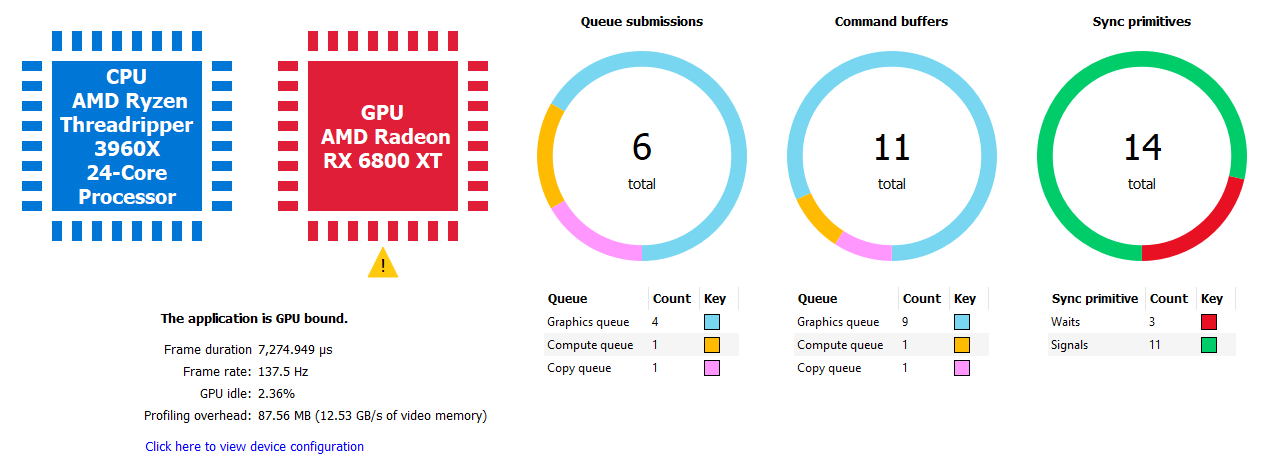
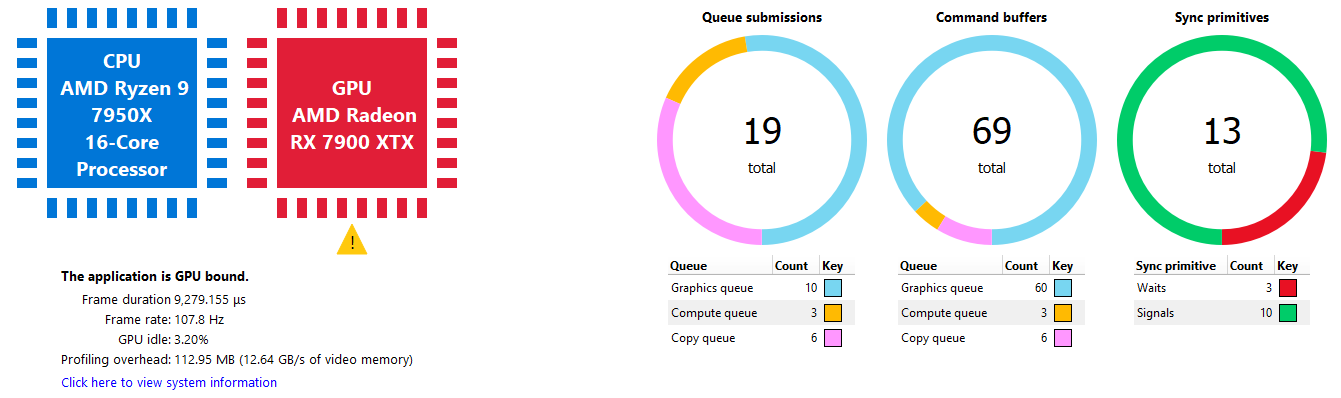
Update docuemntation for V2.3

diff --git a/docs/source/conf.py b/docs/source/conf.py
@@ -56,9 +56,9 @@ author = u'AMD Developer Tools'
 # built documents.
 #
 # The short X.Y version.
-version = u'2.2.0'
+version = u'2.3.0'
 # The full version, including alpha/beta/rc tags.
-release = u'2.2.0'
+release = u'2.3.0'
 
 # The language for content autogenerated by Sphinx. Refer to documentation
 # for a list of supported languages.

diff --git a/docs/source/quickstart.rst b/docs/source/quickstart.rst
@@ -10,7 +10,7 @@ provided with this distribution for information on how to capture a profile.
 This can be obtained from within the Radeon Developer Panel or from the
 link on the Radeon GPU Profiler "Welcome" view. The Radeon Developer Panel
 documentation can also be viewed online at:
-https://radeon-developer-panel.readthedocs.io/en/latest/
+https://gpuopen.com/manuals/rdp_manual/rdp_manual-index/
 
 Starting the Radeon GPU Profiler
 --------------------------------
@@ -96,7 +96,7 @@ the profile data are within the **Overview** and **Events** sections.
 
    g. **Pipelines** - Details of the pipeline usage in the profile.
 
-   h. **Device configuration** - Information about the GPU the profile
+   h. **System information** - Information about the GPU the profile
       was generated on.
 
 3. **Events**
@@ -122,3 +122,25 @@ the profile data are within the **Overview** and **Events** sections.
       hardware data.
 
    c. **Keyboard shortcuts** - Shortcuts for navigating various parts of the UI.
+
+Driver experiments
+------------------
+
+Driver experiments can be configured when capturing a profile and allow the
+behavior of certain driver operations to be adjusted.  Please see the Radeon
+Developer Panel documentation for more details on configuring Driver experiments.
+Modified Driver experiments included in a profile will be listed on the System
+information pane under the section labeled **Driver experiments**. 
+
+.. image:: media_rgp/rgp_system_information.png
+
+When a profile that includes Driver experiments is loaded, a notification
+banner is displayed below the main drop down menu. 
+
+.. image:: media_rgp/rgp_driver_experiments_notification.png
+
+The notification banner includes a "See details" shortcut link that navigates
+to the System information pane. The banner can be dismissed by clicking the "X"
+button. Clicking the "Do not show again" link prevents the banner from being
+shown for subsequently loaded trace files. The notification banner can be
+re-enabled from the Settings pane.

diff --git a/docs/source/overview_windows.rst b/docs/source/overview_windows.rst
@@ -503,8 +503,8 @@ The screen is split into two sections, a timeline view and a tree view listing:
 .. image:: media_rgp/rgp_render_targets_overview_2.png
 
 The graphical timeline view illustrates the usage of render targets over
-the duration of the frame. Other events like dispatches, copies, clears
-and barriers are shown at the bottom of this view.
+the duration of the frame. Other events like dispatches, ray trace dispatches,
+copies, clears and barriers are shown at the bottom of this view.
 
 Zoom controls can be used to focus in on a section of the timeline. More
 information on zoom controls can be found under the
@@ -648,15 +648,20 @@ to quickly navigate to the event in other panes.
 .. image:: media_rgp/rgp_pipeline_summary_5.png
 
 
-Device configuration
---------------------
+System information
+------------------
 
-This UI reports the GPU configuration of the system that was used to
-generate the profile. The Radeon Developer Panel can retrieve profiles
-from remote systems so the GPU details can be different from the system
-that you are using to view the data. The clock frequencies refer to the
+This UI reports the configuration of the system that was used to
+generate the profile. The Radeon Developer Panel can capture profiles
+on remote systems so the system details can be different from the system
+that you are using to view the data. The GPU clock frequencies refer to the
 clock frequency running when the capture was taken. The number in
 parentheses represents the peak clock frequency the graphics hardware
 can run at.
 
-.. image:: media_rgp/rgp_device_configuration.png
+In addition, if any driver experiments were enabled when the profile was captured
+they will be displayed here under the section labeled **Driver experiments**.
+Hovering over a driver experiment name or value with the mouse pointer displays a
+tooltip describing that item.
+
+.. image:: media_rgp/rgp_system_information.png

diff --git a/docs/source/events_windows.rst b/docs/source/events_windows.rst
@@ -163,7 +163,7 @@ The description of each counter can be viewed by hovering the mouse over the
 counter name in the legend left of the counter graph.
 
 The sizes of the L0, L1 and L2 caches, which may vary depending on the GPU, are
-reported in the Device configuration pane in the Overview tab.
+reported in the System information pane in the Overview tab.
 
 Users may use the legend on the left to choose which counters to
 include in the graph.
@@ -581,6 +581,14 @@ from. Grouping by state bucket just shows events in the graphics queue.
 Grouping by hardware context is shown below:
 
 .. image:: media_rgp/rgp_event_timing_2.png
+
+Note that when profiling an application that uses indirect drawing via the
+**ExecuteIndirect** D3D12 call, the event tree view will logically group the
+individual draw calls under the same parent node. This can be seen below where
+the individidual **DrawInstanced** events are grouped under a parent node with
+the same name:
+
+.. image:: media_rgp/rgp_event_treeview_multidraw.png
 
 **Color modes**
 

diff --git a/README.md b/README.md
@@ -20,8 +20,8 @@ In order to use the latest features of RGP, it is strongly recommended that user
    * Help web pages can be accessed from the **Help** button in the Radeon Developer Panel
    * Help web pages can be accessed from the Welcome screen in the Radeon GPU Profiler, or from the **Help** menu
    * The documentation is hosted publicly at:
-     * https://radeon-developer-panel.readthedocs.io/en/latest/
-     * https://radeon-gpuprofiler.readthedocs.io/en/latest/
+     * https://gpuopen.com/manuals/rdp_manual/rdp_manual-index/
+     * https://gpuopen.com/manuals/rgp_manual/rgp_manual-index/
 
 ## Graphics APIs, RDNA™ hardware, and operating systems
 ### Supported APIs
@@ -38,6 +38,7 @@ In order to use the latest features of RGP, it is strongly recommended that user
 * Windows® 10
 * Windows® 11
 * Ubuntu 22.04 LTS (Vulkan only)
+* Ubuntu 24.04 LTS (Vulkan only)
 
 
 ## Compute APIs, RDNA hardware, and operating systems

diff --git a/docs/source/settings.rst b/docs/source/settings.rst
@@ -30,6 +30,10 @@ GPU Analyzer. See the section
 :ref:`Radeon GPU Analyzer and Radeon GPU Profiler interop<rga_rgp_interop>`
 for more information.
 
+**Driver experiment notification** Radeon GPU Profiler will display a
+notification banner under the main drop down menu of the user interface
+indicating when a loaded profile contains modified driver experiments.
+
 Themes and colors
 -----------------
 The profiler makes heavy use of coloring to display its information.

diff --git a/docs/source/index.rst b/docs/source/index.rst
@@ -79,6 +79,8 @@ Graphics APIs, RDNA hardware, and operating systems
 
 -  Ubuntu 22.04 LTS (Vulkan only)
 
+-  Ubuntu 24.04 LTS (Vulkan only)
+
 Compute APIs, RDNA hardware, and operating systems
 --------------------------------------------------
 
